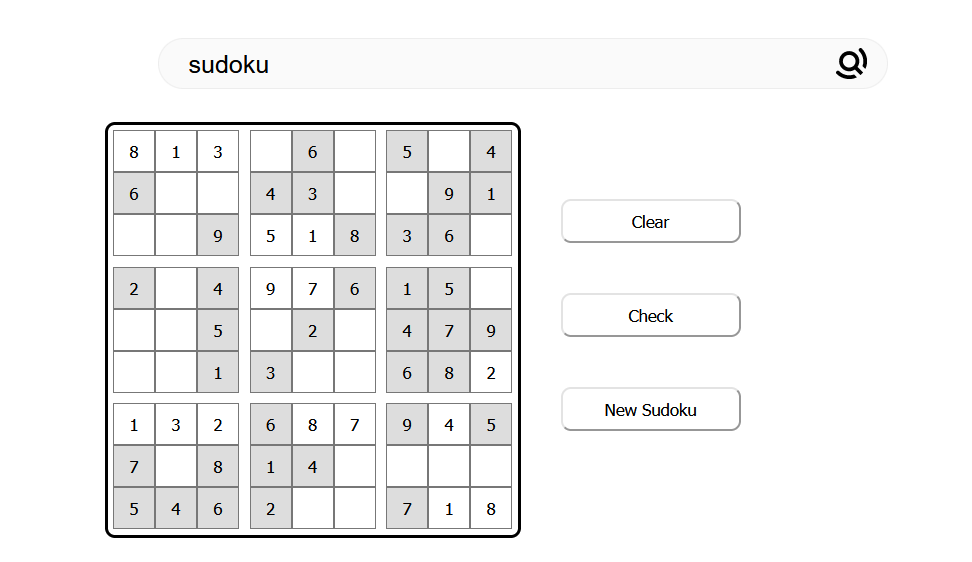
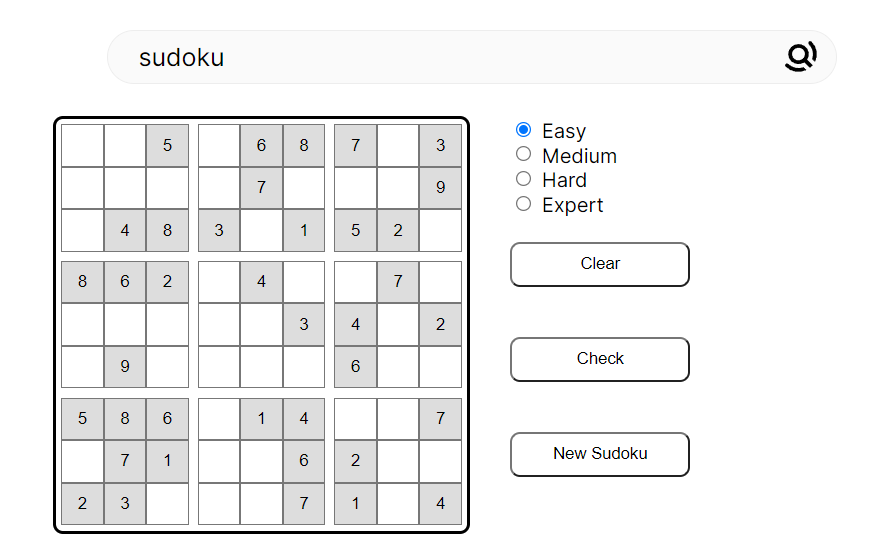
add difficulty levels in sudoku (#214)

diff --git a/apps/sudoku/src/App.jsx b/apps/sudoku/src/App.jsx
@@ -67,6 +67,12 @@ const Button = styled.button`
   width: 9rem;
 `;
 
+const DifficultySelection = styled.div`
+  display: flex;
+  flex-direction: column;
+  font-size: 1rem;
+`;
+
 //=========================================
 
 const convertSudoku = (input) =>
@@ -75,6 +81,7 @@ const convertSudoku = (input) =>
 function Component() {
   const [sudoku, setSudoku] = useState(getSudoku("easy"));
   const [userInput, setUserInput] = useState(convertSudoku(sudoku));
+  const [difficulty, setDifficulty] = useState("easy");
   const [msg, setMsg] = useState("");
   const [displayMsg, setDisplayMsg] = useState(false);
 
@@ -131,7 +138,8 @@ function Component() {
   };
 
   const getNewSudoku = () => {
-    setSudoku(getSudoku("easy"));
+    console.log(difficulty);
+    setSudoku(getSudoku(difficulty));
   };
 
   const getRow = (idx, blockRow) => {
@@ -168,6 +176,48 @@ function Component() {
         ))}
       </Board>
       <ButtonContainer>
+        <DifficultySelection
+          onChange={(e) => {
+            setDifficulty(e.target.value);
+          }}
+        >
+          <label>
+            <input
+              type="radio"
+              value="easy"
+              name="difficulty"
+              checked={difficulty === "easy"}
+            />{" "}
+            Easy
+          </label>
+          <label>
+            <input
+              type="radio"
+              value="medium"
+              name="difficulty"
+              checked={difficulty === "medium"}
+            />{" "}
+            Medium
+          </label>
+          <label>
+            <input
+              type="radio"
+              value="hard"
+              name="difficulty"
+              checked={difficulty === "hard"}
+            />{" "}
+            Hard
+          </label>
+          <label>
+            <input
+              type="radio"
+              value="expert"
+              name="difficulty"
+              checked={difficulty === "expert"}
+            />{" "}
+            Expert
+          </label>
+        </DifficultySelection>
         <Button onClick={() => setUserInput(convertSudoku(sudoku))}>
           Clear
         </Button>
